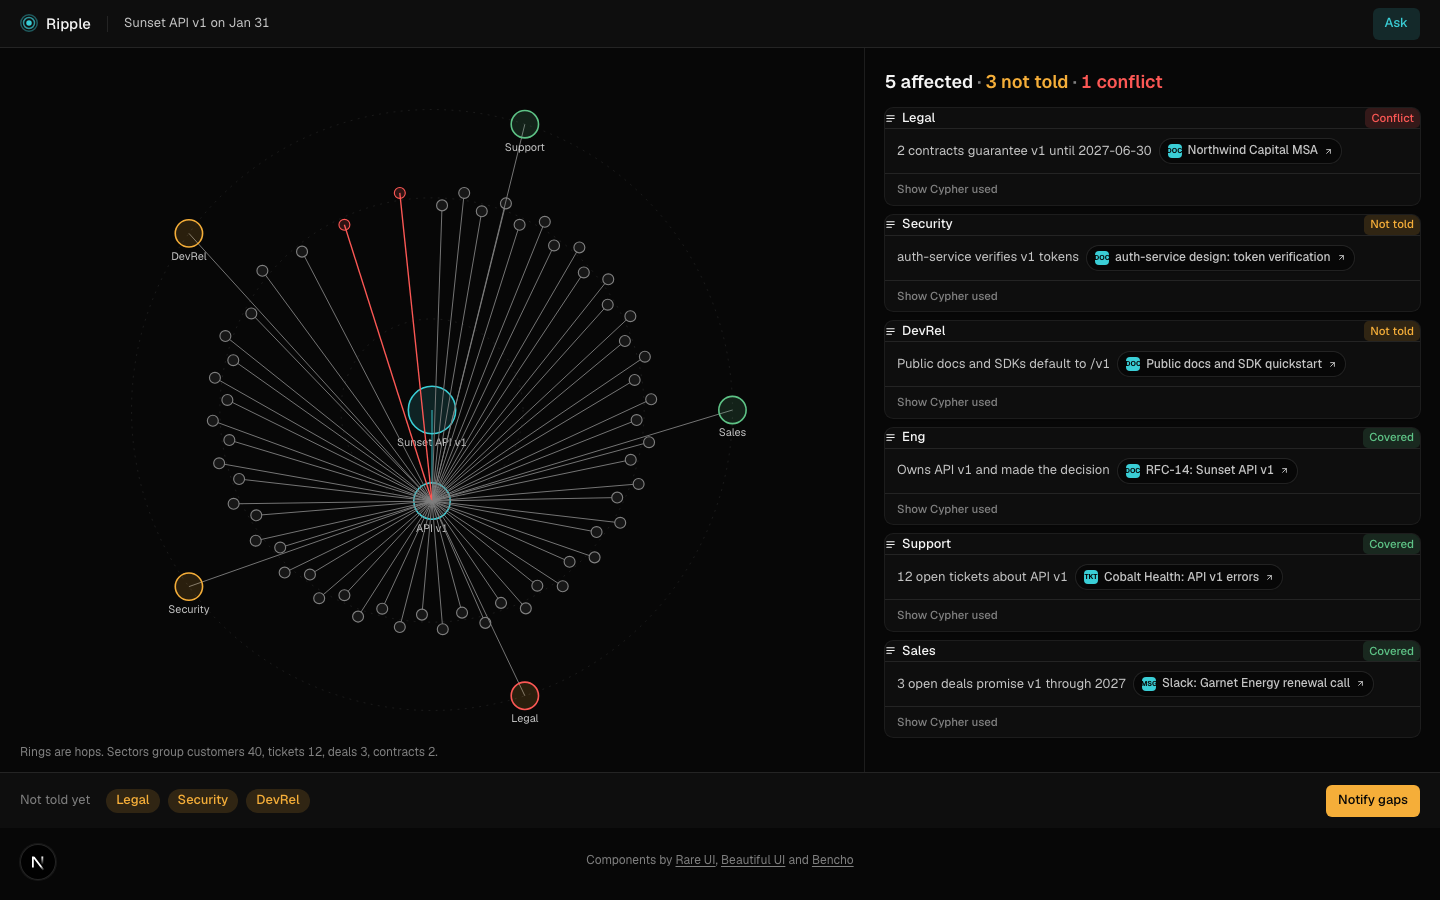
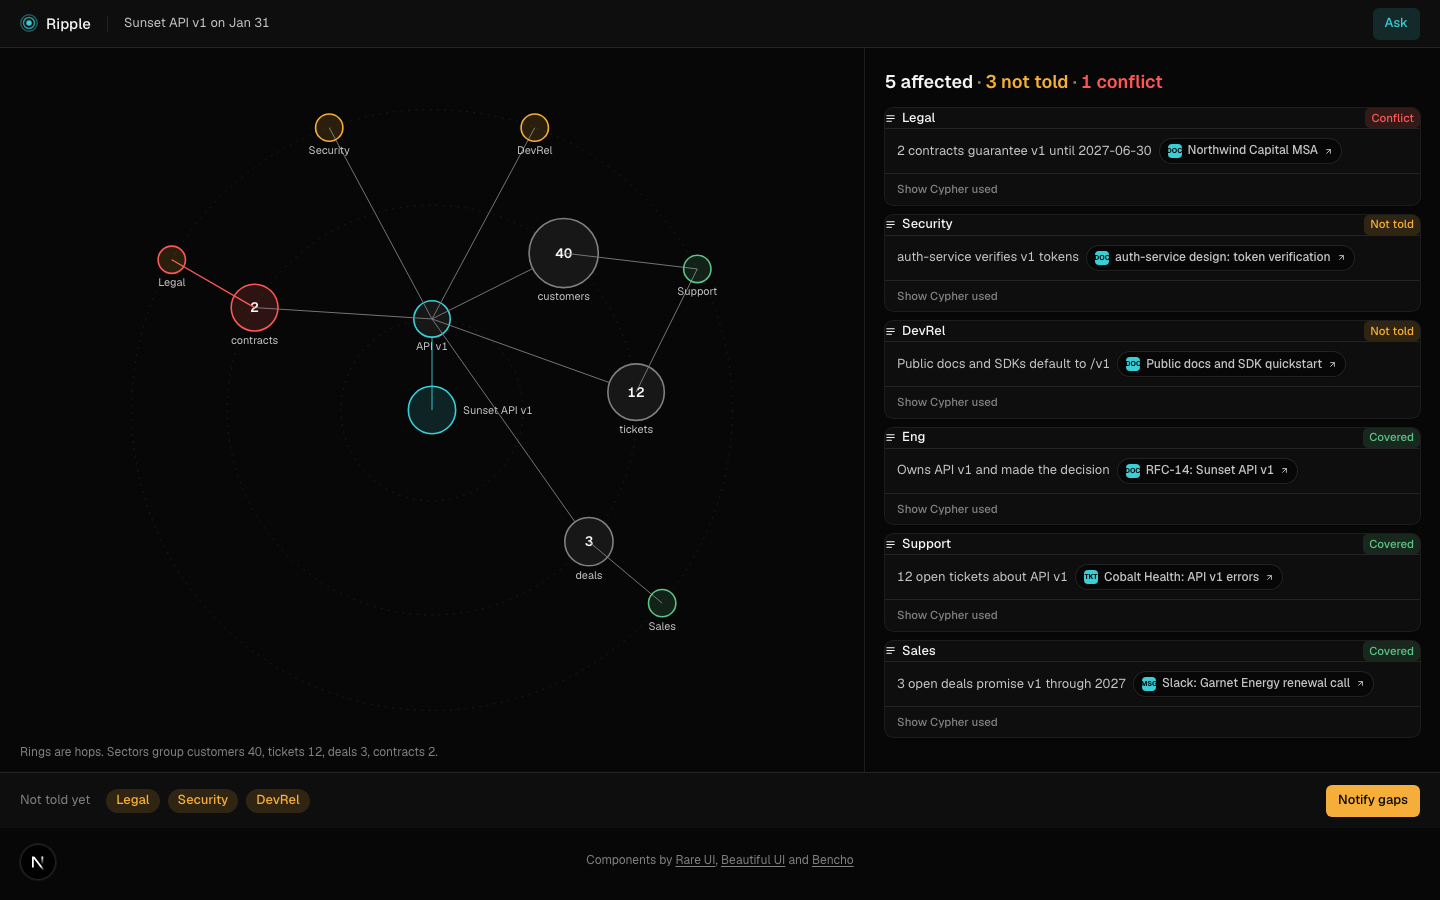
feat: cluster nodes per kind on ring 2, decision centred (#5)

diff --git a/components/ripple/RippleGraph.tsx b/components/ripple/RippleGraph.tsx
@@ -3,70 +3,62 @@
 import { useMemo } from "react";
 import { HopEdge, HopNode, HopWave } from "@/components/motion/HopWave";
 import type { RippleResult } from "@/lib/schemas";
-import { CENTER, place, RINGS, SIZE, type Placed } from "./geometry";
+import { CENTER, layout, RINGS, SIZE, type LNode } from "./geometry";
 
-const NEUTRAL = { fill: "var(--raised)", stroke: "var(--faint)" };
-
-function style(n: Placed, r: RippleResult) {
+function style(n: LNode, r: RippleResult) {
   if (n.kind === "decision") return { fill: "var(--ripple-soft)", stroke: "var(--ripple)" };
   if (n.kind === "system") return { fill: "var(--raised)", stroke: "var(--ripple)" };
-  if (n.kind === "contract" && r.conflicts.some((c) => c.contractIds.includes(n.id)))
-    return { fill: "var(--conflict-soft)", stroke: "var(--conflict)" };
+  if (n.kind === "cluster-contract") return { fill: "var(--conflict-soft)", stroke: "var(--conflict)" };
   if (n.kind === "team") {
     const hasConflict = r.teams.some((t) => t.teamId === n.id && t.why.some((w) => r.conflicts.some((c) => c.contractIds.includes(w.ref))));
-    if (r.gap.includes(n.id))
-      return { fill: "var(--gap-soft)", stroke: hasConflict ? "var(--conflict)" : "var(--gap)" };
+    if (r.gap.includes(n.id)) return { fill: "var(--gap-soft)", stroke: hasConflict ? "var(--conflict)" : "var(--gap)" };
     return { fill: "var(--covered-soft)", stroke: "var(--covered)" };
   }
-  return NEUTRAL;
+  return { fill: "var(--raised)", stroke: "var(--faint)" };
 }
 
 export function RippleGraph({ data }: { data: RippleResult }) {
-  const { nodes, edges } = useMemo(() => {
-    const placed = place(data.nodes);
-    const byId = new Map(placed.map((n) => [n.id, n]));
-    return { nodes: placed.map((n) => ({ n, s: style(n, data) })), edges: edges_(data, byId) };
-  }, [data]);
+  const { nodes, edges } = useMemo(() => layout(data), [data]);
 
   const hops = [0, 1, 2, 3].map((h) => [
     ...edges.filter((e) => e.hop === h).map((e) => (
-      <HopEdge key={e.key} d={e.d} fill="none" stroke={e.stroke} strokeWidth={e.conflict ? 1.5 : 1} opacity={e.conflict ? 0.9 : 0.35} />
+      <HopEdge
+        key={e.key}
+        d={`M${e.from.x} ${e.from.y}L${e.to.x} ${e.to.y}`}
+        fill="none"
+        stroke={e.conflict ? "var(--conflict)" : e.from.kind === "decision" ? "var(--ripple)" : "var(--faint)"}
+        strokeWidth={e.conflict ? 1.5 : 1}
+        strokeDasharray={e.dashed ? "4 4" : undefined}
+        opacity={e.conflict ? 0.9 : 0.5}
+      />
     )),
-    ...nodes.filter(({ n }) => Math.min(n.hop, 3) === h).map(({ n, s }) => (
-      <HopNode key={n.id}>
-        <circle cx={n.x} cy={n.y} r={n.r} fill={s.fill} stroke={s.stroke} strokeWidth={n.r > 10 ? 1.75 : 1.25} />
-        {n.hop <= 1 || n.hop >= 3 ? (
-          <text x={n.x} y={n.y + n.r + 14} textAnchor="middle" fontSize={12} fill="var(--body)">
-            {n.hop === 0 ? "Sunset API v1" : n.label}
-          </text>
-        ) : null}
-      </HopNode>
-    )),
+    ...nodes.filter((n) => n.hop === h).map((n) => {
+      const s = style(n, data);
+      return (
+        <HopNode key={n.id}>
+          <circle cx={n.x} cy={n.y} r={n.r} fill={s.fill} stroke={s.stroke} strokeWidth={n.r > 10 ? 1.75 : 1.25} />
+          {n.items && <title>{n.items.slice(0, 12).join("\n") + (n.items.length > 12 ? `\n+${n.items.length - 12} more` : "")}</title>}
+          {n.count !== undefined ? (
+            <>
+              <text x={n.x} y={n.y + 5} textAnchor="middle" fontSize={15} fontWeight={600} fill="var(--strong)">{n.count}</text>
+              <text x={n.x} y={n.y + n.r + 14} textAnchor="middle" fontSize={12} fill="var(--body)">{n.label.replace(/^\d+ /, "")}</text>
+            </>
+          ) : (
+            <text x={n.x + (n.hop === 0 ? n.r + 8 : 0)} y={n.hop === 0 ? n.y + 4 : n.y + n.r + 14} textAnchor={n.hop === 0 ? "start" : "middle"} fontSize={12} fill="var(--body)">
+              {n.hop === 0 ? "Sunset API v1" : n.label}
+            </text>
+          )}
+        </HopNode>
+      );
+    }),
   ]);
 
   return (
-    <svg viewBox={`0 0 ${SIZE} ${SIZE}`} className="h-full w-full" role="img" aria-label="Ripple graph: decision, system, customers, tickets, deals, contracts and teams by hop">
+    <svg viewBox={`0 0 ${SIZE} ${SIZE}`} className="h-full w-full" role="img" aria-label="Ripple graph: decision, system, customer, ticket, deal and contract clusters, and teams by hop">
       {RINGS.map((r) => (
-        <circle key={r} cx={CENTER} cy={CENTER} r={r + (r === RINGS[1] ? 8 : 0)} fill="none" stroke="var(--hairline)" strokeDasharray="2 6" />
+        <circle key={r} cx={CENTER} cy={CENTER} r={r} fill="none" stroke="var(--hairline)" strokeDasharray="2 6" />
       ))}
       <HopWave hops={hops} />
     </svg>
   );
-}
-
-function edges_(data: RippleResult, byId: Map<string, Placed>) {
-  const guarantee = new Set(data.conflicts.flatMap((c) => c.contractIds));
-  return data.edges.flatMap((e, i) => {
-    const a = byId.get(e.from);
-    const b = byId.get(e.to);
-    if (!a || !b) return [];
-    const conflict = guarantee.has(e.from) || guarantee.has(e.to);
-    return [{
-      key: `${e.from}-${e.to}-${i}`,
-      d: `M${a.x} ${a.y}L${b.x} ${b.y}`,
-      hop: Math.min(Math.max(a.hop, b.hop), 3),
-      conflict,
-      stroke: conflict ? "var(--conflict)" : e.type === "SUNSETS" ? "var(--ripple)" : "var(--faint)",
-    }];
-  });
 }

diff --git a/components/ripple/geometry.ts b/components/ripple/geometry.ts
@@ -1,34 +1,62 @@
 import type { RippleResult } from "@/lib/schemas";
 
-type N = RippleResult["nodes"][number];
-export type Placed = N & { x: number; y: number; r: number };
-
 export const SIZE = 760;
 export const CENTER = SIZE / 2;
 export const RINGS = [100, 225, 330]; // radius of hop 1, 2, 3
-const KIND_ORDER = ["customer", "ticket", "deal", "contract"] as const;
-const R = { 0: 26, 1: 20, 2: 6, 3: 15 } as const;
+
+export type LNode = {
+  id: string;
+  label: string;
+  kind: string;
+  hop: number;
+  x: number;
+  y: number;
+  r: number;
+  count?: number;
+  /** tooltip: the individual items inside a cluster */
+  items?: string[];
+};
+export type LEdge = { key: string; from: LNode; to: LNode; hop: number; dashed?: boolean; conflict?: boolean };
+
+const KINDS = ["customer", "ticket", "deal", "contract"] as const;
+const PLURAL = { customer: "customers", ticket: "tickets", deal: "deals", contract: "contracts" } as const;
+// angle in degrees clockwise from top: cluster sectors on ring 2, then owner team + the rest on ring 3
+const CLUSTER_DEG = { customer: 40, ticket: 85, deal: 130, contract: 300 } as const;
+const OWNER = { customer: "support", ticket: "support", deal: "sales", contract: "legal" } as const;
+const TEAM_DEG: Record<string, number> = { support: 62, sales: 130, legal: 300, security: 340, devrel: 20 };
 
 const at = (radius: number, deg: number) => ({
-  x: CENTER + radius * Math.cos(((deg - 90) * Math.PI) / 180),
-  y: CENTER + radius * Math.sin(((deg - 90) * Math.PI) / 180),
+  x: CENTER + radius * Math.sin((deg * Math.PI) / 180),
+  y: CENTER - radius * Math.cos((deg * Math.PI) / 180),
 });
 
-/** Hop = ring; hop-2 nodes sit in sectors grouped by kind; teams spread evenly on ring 3. */
-export function place(nodes: N[]): Placed[] {
-  const out: Placed[] = [];
-  const put = (n: N, radius: number, deg: number, r: number) => out.push({ ...n, ...at(radius, deg), r });
-  const hop2 = KIND_ORDER.map((k) => nodes.filter((n) => n.hop === 2 && n.kind === k));
-  const weights = hop2.map((g) => (g.length ? Math.max(g.length, 6) : 0));
-  const total = weights.reduce((a, b) => a + b, 0) || 1;
-  let start = 0;
-  hop2.forEach((g, gi) => {
-    const span = (weights[gi] / total) * 360;
-    g.forEach((n, i) => put(n, RINGS[1] + (i % 2) * 16, start + ((i + 0.5) / g.length) * span, R[2]));
-    start += span;
+/** Decision at the centre, API v1 on ring 1, one cluster per kind on ring 2, teams on ring 3. */
+export function layout(data: RippleResult): { nodes: LNode[]; edges: LEdge[] } {
+  const nodes: LNode[] = [];
+  const byId = new Map<string, LNode>();
+  const add = (n: LNode) => (nodes.push(n), byId.set(n.id, n), n);
+
+  const decision = add({ ...data.nodes.find((n) => n.hop === 0)!, ...at(0, 0), r: 26 });
+  const system = add({ ...data.nodes.find((n) => n.kind === "system")!, ...at(RINGS[0], 0), r: 20 });
+  const clusters = KINDS.flatMap((kind) => {
+    const items = data.nodes.filter((n) => n.hop === 2 && n.kind === kind);
+    if (!items.length) return [];
+    const r = 22 + Math.min(16, Math.sqrt(items.length) * 2.6);
+    return [add({ id: `cluster-${kind}`, label: `${items.length} ${PLURAL[kind]}`, kind: `cluster-${kind}`, hop: 2, ...at(RINGS[1], CLUSTER_DEG[kind]), r, count: items.length, items: items.map((i) => i.label) })];
   });
-  nodes.filter((n) => n.hop === 0).forEach((n) => put(n, 0, 0, R[0]));
-  nodes.filter((n) => n.hop === 1).forEach((n, i, a) => put(n, RINGS[0], (i / a.length) * 360 + 180, R[1]));
-  nodes.filter((n) => n.hop >= 3).forEach((n, i, a) => put(n, RINGS[2], 18 + (i / a.length) * 360, R[3]));
-  return out;
+  data.nodes.filter((n) => n.kind === "team").forEach((n, i) => add({ ...n, ...at(RINGS[2], TEAM_DEG[n.id] ?? 280 + i * 20), r: 15 }));
+
+  const edges: LEdge[] = [];
+  const link = (a: LNode | undefined, b: LNode | undefined, o: Partial<LEdge> = {}) =>
+    a && b && edges.push({ key: `${a.id}-${b.id}`, from: a, to: b, hop: Math.min(Math.max(a.hop, b.hop), 3), ...o });
+  link(decision, system);
+  const owned = new Set<string>();
+  for (const c of clusters) {
+    const kind = c.kind.replace("cluster-", "") as (typeof KINDS)[number];
+    link(system, c);
+    link(c, byId.get(OWNER[kind]), { conflict: kind === "contract" });
+    owned.add(OWNER[kind]);
+  }
+  nodes.filter((n) => n.kind === "team" && !owned.has(n.id)).forEach((t) => link(system, t, { dashed: true }));
+  return { nodes, edges };
 }

diff --git a/components/ripple/geometry.test.ts b/components/ripple/geometry.test.ts
@@ -1,14 +1,16 @@
 import { expect, test } from "vitest";
 import { rippleResult } from "@/lib/mock/ledgerly";
-import { place, SIZE } from "./geometry";
+import { layout, SIZE } from "./geometry";
 
-test("every ripple node gets a position inside the canvas", () => {
-  const p = place(rippleResult.nodes);
-  expect(p).toHaveLength(rippleResult.nodes.length);
-  for (const n of p) {
-    expect(n.x).toBeGreaterThan(0);
-    expect(n.x).toBeLessThan(SIZE);
-    expect(n.y).toBeGreaterThan(0);
-    expect(n.y).toBeLessThan(SIZE);
+test("clusters per kind, all nodes inside the canvas, no two nodes overlap", () => {
+  const { nodes, edges } = layout(rippleResult);
+  expect(nodes.filter((n) => n.count).map((n) => n.label)).toEqual(["40 customers", "12 tickets", "3 deals", "2 contracts"]);
+  expect(edges.some((e) => e.dashed)).toBe(true);
+  for (const [i, a] of nodes.entries()) {
+    expect(a.x - a.r).toBeGreaterThan(0);
+    expect(a.x + a.r).toBeLessThan(SIZE);
+    expect(a.y - a.r).toBeGreaterThan(0);
+    expect(a.y + a.r).toBeLessThan(SIZE);
+    for (const b of nodes.slice(i + 1)) expect(Math.hypot(a.x - b.x, a.y - b.y)).toBeGreaterThan(a.r + b.r);
   }
 });
